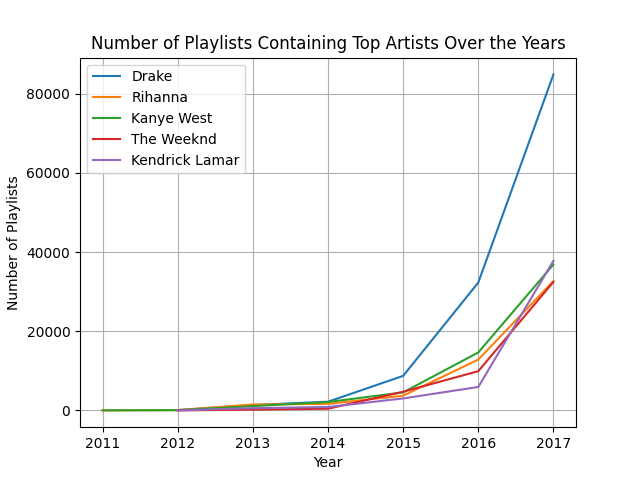
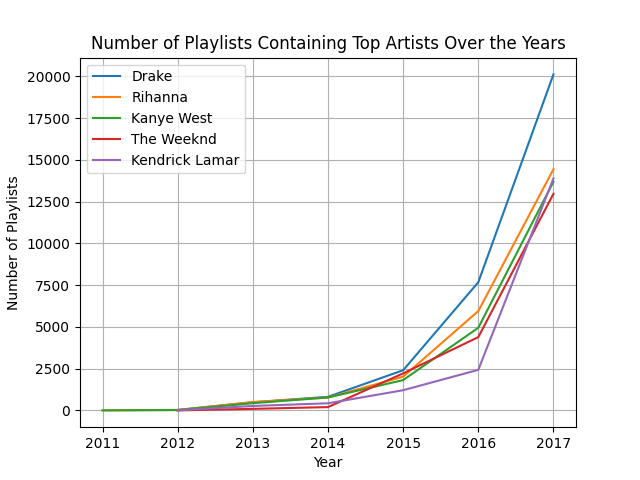
Grafico 2 corrigido

diff --git a/part2.py b/part2.py
@@ -12,9 +12,10 @@ def run(sc, tracks_df, playlists_df):
 
     for row in top_artists.collect():
         artist_name = row["artist_name"]
-        artist_data = joined_df.filter(joined_df["artist_name"] == artist_name).groupBy(year("modified_at").alias("year")).count().orderBy("year")
+        artist_data = joined_df.filter(joined_df["artist_name"] == artist_name).groupBy(year("modified_at").alias("year")).agg(countDistinct("pid").alias("count")).orderBy("year")
         artist_data_pd = artist_data.toPandas()
         plt.plot(artist_data_pd["year"], artist_data_pd["count"], label=artist_name)
+
 
     plt.xlabel('Year')
     plt.ylabel('Number of Playlists')
